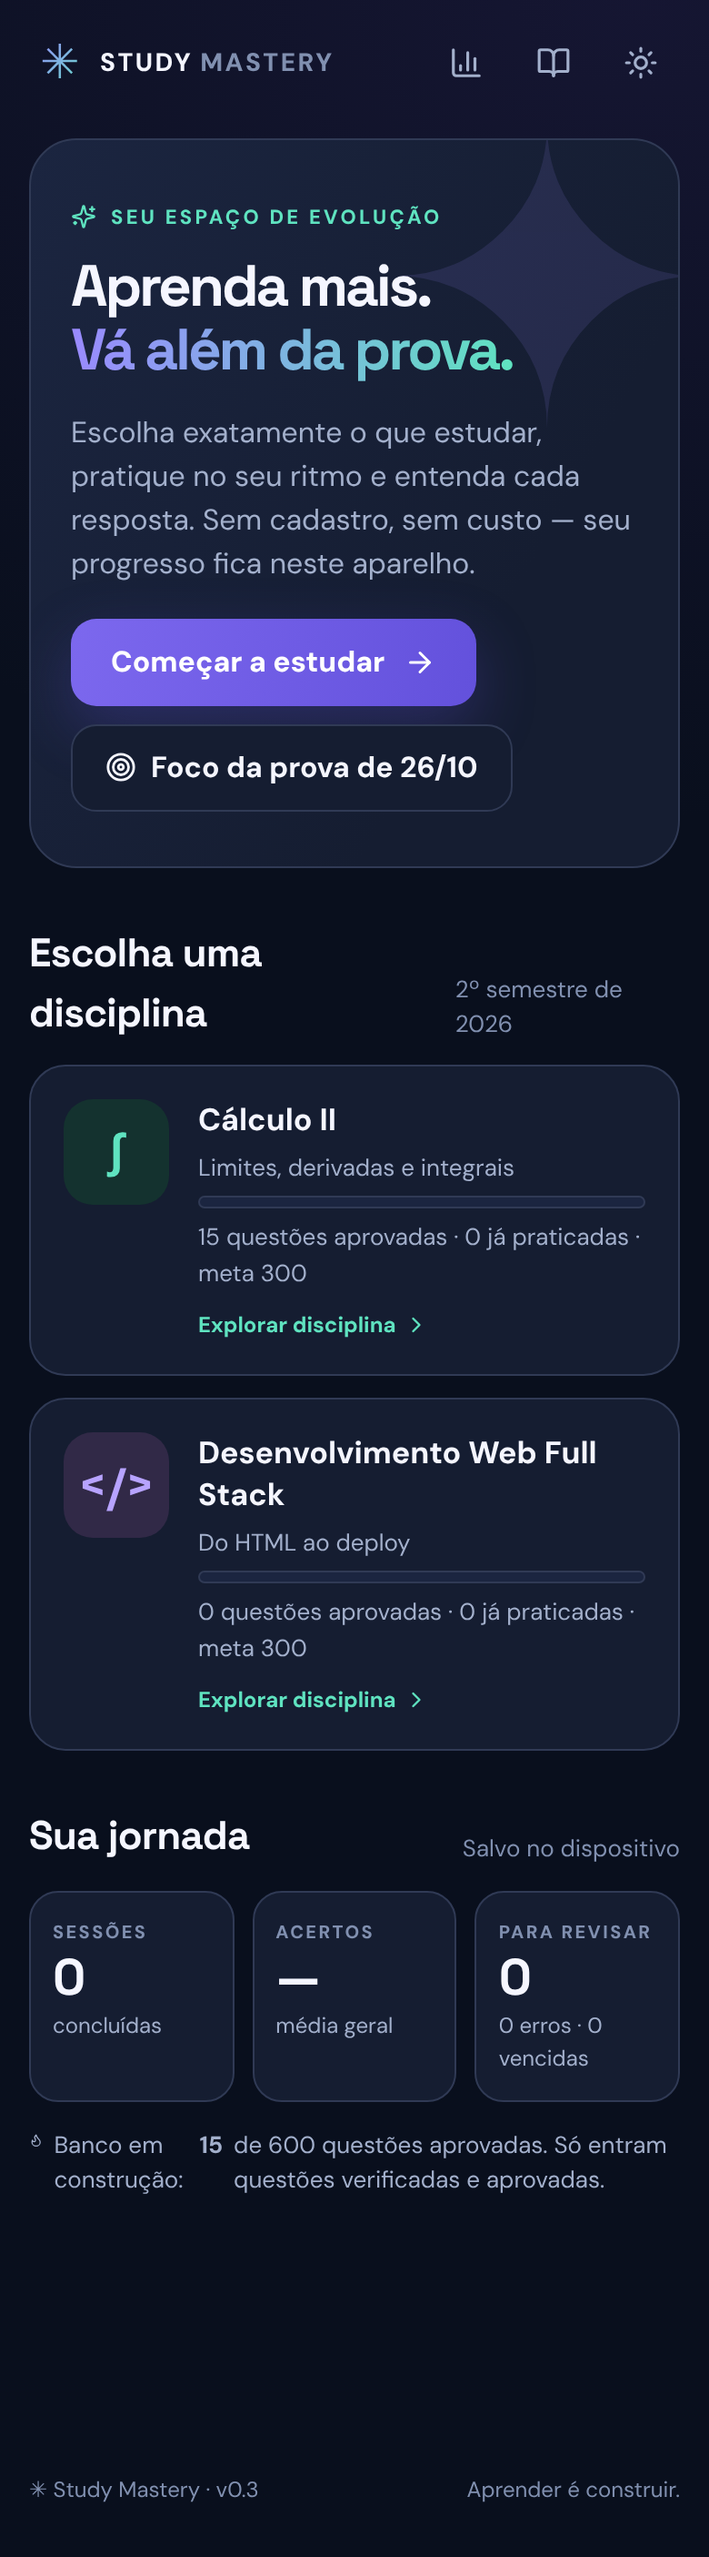
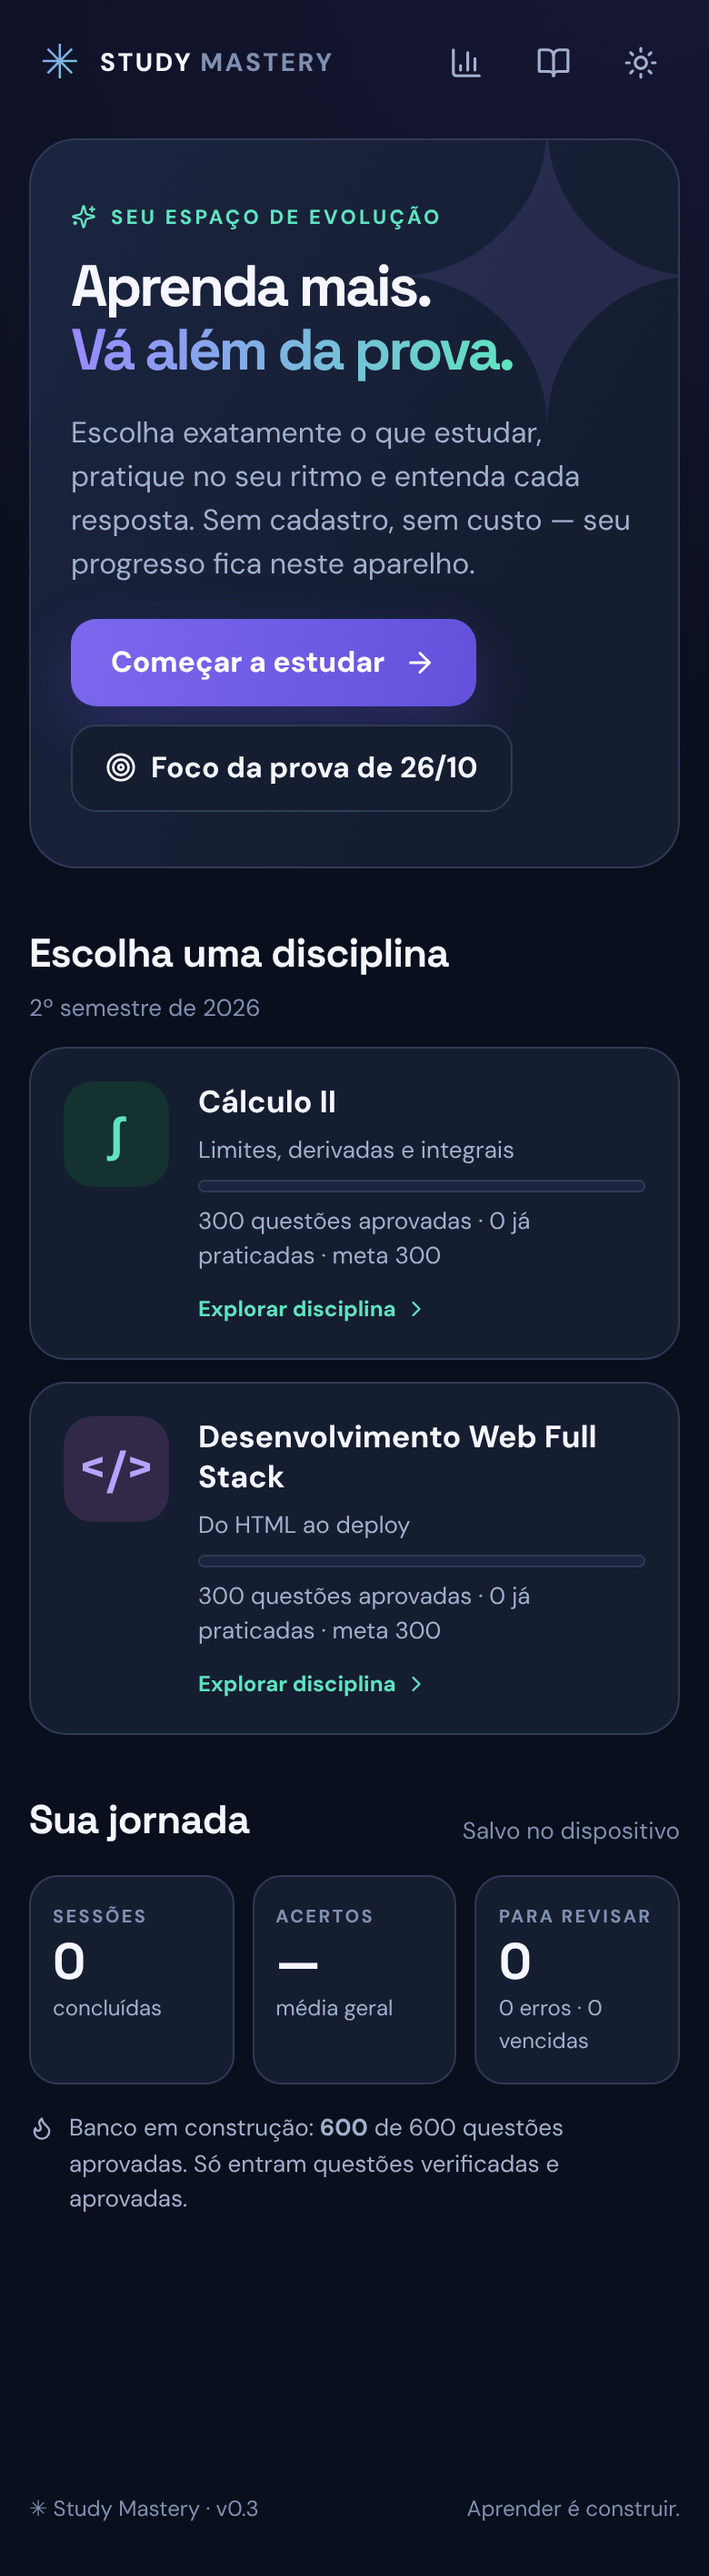
Docs e E2E para a v0.4: 600 aprovadas, verificadores de Full Stack, auditoria do legado
Claude-Session: https://claude.ai/code/session_017Rnfn5MW9JfNsp5D9rP1dW

diff --git a/study-mastery/tests/e2e/run.ts b/study-mastery/tests/e2e/run.ts
@@ -66,12 +66,20 @@ async function run(page: Page) {
   const lh = page.getByRole('checkbox', { name: /Regra de L’Hôpital|Regra de L'Hôpital/ });
   check(await lh.isChecked(), "L'Hôpital marcado pelo preset da prova");
   const deriv = page.getByRole('checkbox', { name: /Regras de derivação/ });
-  check(await deriv.isDisabled(), 'assunto sem questões aprovadas fica desabilitado (sem inventar conteúdo)');
+  check(!(await deriv.isDisabled()), 'assunto com questões aprovadas pode ser selecionado');
   check(await noHScroll(page), 'sem rolagem horizontal na configuração');
   await page.screenshot({ path: shot('02-setup.png'), fullPage: true });
   const summary = page.getByRole('region', { name: 'Resumo da sessão' });
   check(/elegíveis/.test(await summary.innerText()), 'resumo de elegíveis visível');
-  check(/Só há \d+ questões aprovadas/.test(await summary.innerText()), 'avisa quando há menos questões do que o pedido (20) em vez de completar');
+  // só “Regras de derivação” (17 aprovadas, menos que 20 elegíveis) com sessão de 20: o app avisa em vez de completar com outro conteúdo
+  await page.getByRole('button', { name: 'Selecionar todos' }).click();
+  await page.getByRole('button', { name: 'Limpar' }).click();
+  await deriv.check();
+  await page.locator('label.seg-btn', { hasText: /^\s*20\s*$/ }).click();
+  check(/Só há (\d+) questões aprovadas/.test(await summary.innerText()) && Number(/Só há (\d+)/.exec(await summary.innerText())![1]) < 20, 'avisa quando há menos questões do que o pedido (20) em vez de completar');
+  await page.getByRole('button', { name: 'Foco da prova' }).click();
+  await page.getByRole('checkbox', { name: /Regra de L’Hôpital|Regra de L'Hôpital/ }).waitFor();
+  check(await page.getByRole('checkbox', { name: /Regra de L’Hôpital|Regra de L'Hôpital/ }).isChecked(), 'preset da prova restaurado');
 
   console.log('Modo Aprender');
   await page.getByRole('radio', { name: /^Aprender/ }).check();
@@ -155,6 +163,29 @@ async function run(page: Page) {
   await page.getByText(/Importado:/).waitFor();
   check(/2/.test(await page.locator('.metrics').first().innerText()), 'importação restaura o histórico');
   fs.rmSync(file);
+
+  console.log('Full Stack (código e explicações)');
+  await page.evaluate(() => { location.hash = '#/setup?d=fullstack'; });
+  await page.getByRole('heading', { name: /Configure seu/ }).waitFor();
+  if (await page.getByRole('button', { name: 'Selecionar todos' }).count()) await page.getByRole('button', { name: 'Selecionar todos' }).click();
+  await page.getByRole('radio', { name: /^Aprender/ }).check();
+  await page.locator('label.seg-btn', { hasText: /^\s*10\s*$/ }).click();
+  await page.getByRole('button', { name: /Iniciar/ }).click();
+  await page.getByRole('radiogroup').first().waitFor();
+  let codigos = 0;
+  for (let i = 0; i < 10; i++) {
+    codigos += await page.locator('#q-stem code, .choice code').count();
+    await page.keyboard.press('1');
+    await page.locator('.feedback').waitFor();
+    if (i === 0) {
+      check(await page.getByText('Por que a alternativa correta está certa').isVisible(), 'Full Stack mostra a explicação detalhada');
+      await page.screenshot({ path: shot('10-fullstack-feedback.png'), fullPage: true });
+    }
+    await page.getByRole('button', { name: /Próxima|Ver resultados/ }).click();
+  }
+  check(codigos > 0, 'Full Stack renderiza trechos de código (inline ou em bloco)');
+  check(await noHScroll(page), 'sem rolagem horizontal em Full Stack (390px)');
+  await page.getByRole('heading', { name: /Resultado|Sessão concluída|acertos/i }).first().waitFor().catch(() => undefined);
 
   console.log('Acervo e tema');
   await page.getByRole('button', { name: 'Acervo e fontes' }).click();

diff --git a/study-mastery/PROGRESSO.md b/study-mastery/PROGRESSO.md
@@ -5,7 +5,7 @@ Atualizado a cada etapa. As **contagens** abaixo são geradas do banco (`npm run
 ## Contagens validadas
 
 <!-- CONTAGENS:INICIO -->
-_Gerado automaticamente em 2026-10-23T01:53:36.374Z por `npm run progress`. Só contam questões **aprovadas**; rascunhos, verificadas-não-aprovadas e rejeitadas ficam fora._
+_Gerado automaticamente em 2026-10-23T02:00:38.270Z por `npm run progress`. Só contam questões **aprovadas**; rascunhos, verificadas-não-aprovadas e rejeitadas ficam fora._
 
 **Total aprovado: 600 de 600** (faltam 0).
 
@@ -66,15 +66,17 @@ Revisão das aprovadas: 600 `ai-assisted`. **Nenhuma questão passou por revisã
 | P1 — UI navegável, 4 modos, filtros estritos, histórico local, E2E | **feito e testado** | testes unitários + E2E em Chromium 390 px (`npm run e2e`), capturas em `docs/screenshots/` |
 | P2 — schema, importação, validadores, fila de revisão, cobertura | **feito e testado** | `tools/` + testes em `tools/lib/__tests__/` |
 | P3 — gerador de rascunhos por lotes com provedor injetável | **feito**; provedor real **não testado contra a API** (sem chave neste ambiente) | testado com `MockProvider` e `fetch` simulado |
-| P4 — expansão até 600 aprovadas | **em andamento** | ver contagens |
+| P4 — expansão até 600 aprovadas | **feito** (600/600 aprovadas, 100 por dificuldade e disciplina) | ver contagens; Full Stack verificado por execução (Node, React, Express, MariaDB, Chromium) |
 | P5 — PWA/offline, acessibilidade, deploy gratuito | PWA (service worker + manifest) feito; deploy **não feito** (precisa da sua autorização) | `public/sw.js` |
 
 ## Pendências e riscos
 
-- **Próximo passo — Full Stack (0/300)**: auditar/reescrever as 50 questões legadas (`content/legacy/legacy-v01.json`), montar a verificação de Full Stack (sandbox Node com express/jsonwebtoken/bcryptjs/mysql2/react SSR, Chromium para HTML/CSS, SQLite para SQL), registrar as fontes (READMEs das aulas) e escrever os lotes por assunto conforme `content/taxonomy.json`. Cálculo II está completo (300/300).
+- **Próximo passo recomendado — revisão humana**: amostrar e aprovar (`--type human`) especialmente as questões de aprofundamento/desafio; só então considerar `publish --require-human`.
+- **Ambiente de verificação**: questões de Full Stack exigem `npm run sandbox:install`, Chromium e `mariadb-server` (veja `docs/PIPELINE.md`); sem eles, `validate` falha nessas questões (por desenho: nada é aprovado sem execução).
 - **Cálculo II sem aula no material**: derivadas parciais, integrais duplas e otimização usam o conteúdo programático (`c2-programa`) como fonte; os enunciados são originais e verificados por SymPy/mpmath. Se a professora enviar slides desses temas, vale conferir o alinhamento de notação.
-
+- **MariaDB × MySQL**: as 26 questões de SQL foram executadas em MariaDB com o `sql_mode` do MySQL 8; diferenças exclusivas do MySQL 8 não foram cobertas (questões evitam depender delas).
+- **Legado**: as 50 questões antigas de Full Stack não foram publicadas (veja `docs/AUDITORIA_LEGADO.md`).
 - **Revisão humana**: toda aprovação até aqui é "assistida por IA" (verificação automática + leitura crítica em passada separada da autoria). Recomenda-se amostragem humana; `npm run sm -- publish --require-human` publica só o que um humano aprovou.
-- **Rede bloqueada para fontes externas** (OpenStax, MDN, react.dev, RFCs, dev.mysql.com): nenhuma questão cita essas fontes (a validação recusa fontes não lidas). Para liberar, adicione os hosts em *Allowed domains* do ambiente.
+- **Fontes externas não lidas** (OpenStax, MDN, react.dev, RFCs, dev.mysql.com, docs do Render/Netlify): nenhuma questão cita essas fontes (a validação recusa fontes não lidas). Para liberar, adicione os hosts em *Allowed domains* do ambiente.
 - **Materiais não lidos**: `Lista_CalcII.pdf` (Revisão NI1) e `3a Lista CB — Máximos e Mínimos` nunca foram recebidos (registrado no Drive). O PDF da 2ª lista de L'Hôpital/integrais tem matemática em imagem; foi lida por renderização.
 - **Deploy**: nada foi publicado. O workflow `.github/workflows/deploy.yml` do repositório não foi alterado.

diff --git a/study-mastery/docs/PIPELINE.md b/study-mastery/docs/PIPELINE.md
@@ -21,6 +21,10 @@
 6. **Gabarito demonstrado** (`verification`):
    - `limit`, `form`, `derivative`, `integral`, `definite`, `expr`, `function`: **SymPy** (simbólico) + **mpmath** (numérico independente: sequências com 250 dígitos, quadratura, diferença finita). Exige que **somente** a alternativa correta satisfaça a verificação.
    - `js`: executa o código em Node isolado (`--permission`) e compara a saída real com cada alternativa (reproduz a ordem real de `nextTick`, microtasks e timers).
+   - `double`: integrais duplas — valor exato (SymPy) + quadratura aninhada (mpmath) na ordem original; `swap`/`exactFrom: "swap"` usam o teorema de Fubini quando a ordem dada não tem primitiva elementar.
+   - `node`: executa código com as bibliotecas **reais** do sandbox (`tools/sandbox`: Express 5, cors, jsonwebtoken, bcryptjs, React 19 + jsdom, React Router 7, Vite, emmet, mysql2, ignore) em Node `--permission` (leitura de arquivos só no sandbox, sem processos filhos). `jsx: true` compila JSX com o esbuild; `files` cria arquivos de apoio lidos via `DIR`; `addons: true` libera módulos nativos (Vite). Servidores de teste usam porta efêmera em 127.0.0.1.
+   - `sql`: carrega o schema da aula em um **MariaDB temporário** (compatível com MySQL; `sql_mode` do MySQL 8; sem autenticação, só em 127.0.0.1) e executa as consultas com `mysql2`. Evitamos depender de diferenças conhecidas entre MariaDB e MySQL (ex.: códigos de erro de `CHECK`). Requer `apt-get install mariadb-server`.
+   - `web`: abre HTML/CSS no **Chromium** (sem rede) e mede layout, estilos computados e a árvore de acessibilidade (`aria`); com `servers` sobe origens locais distintas para testar `fetch`/**CORS de verdade** (sem interceptação do Playwright, que falseia o preflight).
    - `source`: afirmações conferidas contra a fonte lida (não há execução; fica registrado como `source-review`).
 
 ## Revisão
@@ -37,8 +41,21 @@
 
 `import` percorre PDFs/MD/TXT/HTML/ZIP (recusa *zip-slip*), calcula SHA-256, detecta duplicatas e atualizações, extrai texto (`pdftotext`), classifica assuntos por palavras-chave (`content/keywords.json`), sugere cabeçalhos de assuntos novos e registra novas fontes. `--drive <pasta>` baixa de uma pasta do Google Drive pela API REST usando `GOOGLE_DRIVE_TOKEN` (testado com `fetch` simulado, **não** contra o Drive real).
 
+## Instalação do verificador de Full Stack
+
+```bash
+npm run sandbox:install        # instala tools/sandbox/node_modules (ignorado pelo git)
+apt-get install -y mariadb-server   # só para questões kind=sql
+```
+
+O Chromium usa `CHROMIUM_PATH` (padrão `/opt/pw-browsers/chromium-1194/chrome-linux/chrome`).
+
 ## Limites conhecidos
 
 - `source-review` não é verificação executável: depende da leitura da fonte e da revisão.
 - O Node `--permission` não bloqueia rede em loopback; para código gerado por IA não confiável, rode `validate` dentro de um contêiner.
 - A verificação numérica de limites usa sequências finitas: não decide convergências extremamente lentas (ex.: $(\ln x)^5/x^{0{,}1}$) — nesses casos a questão é reformulada.
+- O `kind: node` não restringe rede em loopback; o código verificado é sempre escrito no repositório (nunca de terceiros).
+- O `kind: sql` usa MariaDB: comportamentos exclusivos do MySQL 8 (autenticação, alguns códigos de erro) não são cobertos. Verifique antes de criar questões que dependam dessas diferenças.
+- Detalhes de plataformas externas (Render, Netlify) só entram quando constam do material da aula; o que dá para executar localmente (Vite `loadEnv`, Express, CORS, `.gitignore`) é executado.
+- Lições registradas: duas afirmações iniciais minhas foram **refutadas pela execução** e substituídas (stack de erros customizados; laço infinito em `useEffect` no React); a verificação real é o que impede esse tipo de erro.

diff --git a/study-mastery/docs/AUDITORIA_LEGADO.md b/study-mastery/docs/AUDITORIA_LEGADO.md
@@ -1,0 +1,38 @@
+# Auditoria das 50 questões legadas de Full Stack (v0.1)
+
+Arquivo: `content/legacy/legacy-v01.json` (intocado). **Nenhuma** das 50 foi publicada: o app só lê o banco `approved` gerado pelo pipeline.
+
+## Achados
+
+| Problema | Quantidade | Detalhe |
+|---|---:|---|
+| Explicação genérica (“Revise …”) | 50 | nenhuma explica por que a alternativa está certa nem por que as outras estão erradas |
+| Sem motivo por alternativa errada | 50 | exigência do pipeline v0.3 |
+| Dificuldade única (`intermediario`) | 50 | impossível cumprir as cotas fácil/média/difícil |
+| Sem fonte rastreável | 50 | apenas `legado-fullstack-v01` |
+| Sem verificação executável | 50 | gabarito não demonstrado |
+| Enunciado com defeito | 1 | `fs-026` tem dupla negação (“Por que **não** devemos **evitar** explodir um objeto…”) |
+
+Conferência factual do gabarito: nenhum erro de conteúdo foi encontrado nas 50 (por exemplo, `fs-039` — porta 3333 — está confirmada no README da Aula 09; `fs-049` — Express 5 e Promises rejeitadas — confere com a Aula 12 e foi reexecutado no verificador).
+
+## Decisão
+
+Em vez de “remendar” as 50 (que ficariam sem dificuldade variada nem verificação), os **mesmos assuntos** foram cobertos por 300 questões novas, originais, com gabarito demonstrado por execução, fonte e motivos por alternativa. O legado permanece no repositório apenas como referência histórica.
+
+## Mapeamento por assunto
+
+| Assunto legado (nº) | Assunto atual | Aprovadas |
+|---|---|---:|
+| HTML Semântico (4) | `html` | 20 |
+| CSS Flexbox/Grid (5) | `css` | 24 |
+| JS Funções (5) | `js-funcoes` | 27 |
+| Fetch API (4) | `fetch-async` | 26 |
+| Classes JS e Erros (4) | `classes-erros` | 22 |
+| React Componentes (4) | `react-componentes` | 24 |
+| React useEffect/Forms (7) | `react-hooks-forms` | 27 |
+| React Router (4) | `react-router` | 18 |
+| Express (4) | `express-rest` | 27 |
+| MySQL (4) | `mysql` | 26 |
+| JWT (4) | `jwt-auth` | 25 |
+| Error Handlers (3) | `validacao-erros` | 18 |
+| — (deploy não existia no legado) | `deploy` | 16 |

diff --git a/study-mastery/docs/IMPLEMENTACAO.md b/study-mastery/docs/IMPLEMENTACAO.md
@@ -17,5 +17,9 @@ P1 — validadores, painel editorial, matemática com KaTeX, ingestão manual do
 P2 — revisão espaçada e calibração por taxa de acerto.
 P3 — automação controlada de ingestão externa; Supabase opcional para login/sincronização e pipeline editorial.
 
-## Nota de implementação
-Protótipo criado nesta entrega; não confundir telas do Figma com app hospedado e nem pipeline planejado com código existente.
+## Estado da implementação (v0.4)
+
+- Entregue e testado: app React/Vite (4 modos, filtros estritos, Leitner, histórico local, exportar/importar, PWA), pipeline editorial completo (`tools/sm.ts`) e **600 questões aprovadas** (300 Cálculo II + 300 Full Stack) com verificação executável (SymPy/mpmath, Node isolado, React, Express, MariaDB temporário, Chromium).
+- Suíte: testes unitários e do pipeline (`npm test`) e E2E em Chromium a 390 px (`npm run e2e`, inclui sessão de Full Stack com código).
+- Pendências conscientes: revisão humana (todas as aprovações são `ai-assisted`); provedor de IA real e download real do Google Drive nunca rodaram contra as APIs (apenas mocks); fontes externas (`ext-*`) continuam `accessed: false` porque os domínios estavam bloqueados; deploy público não foi feito (depende de autorização).
+- As 50 questões legadas de Full Stack não foram publicadas: veja `docs/AUDITORIA_LEGADO.md`.

diff --git a/study-mastery/CHANGELOG.md b/study-mastery/CHANGELOG.md
@@ -1,5 +1,13 @@
 # Changelog
 
+## 0.4.0 — 2026-10-23
+- **600 questões aprovadas**: Cálculo II (300) e Desenvolvimento Web Full Stack (300), 100 por dificuldade em cada disciplina, distribuídas pelos assuntos conforme `content/taxonomy.json`.
+- Cálculo II completo: derivadas, Taylor, máximos e mínimos, funções de 2 variáveis, derivadas parciais, integrais duplas e otimização (além de L'Hôpital, primitivas, substituição e integral definida).
+- Verificadores novos: `double` (integrais duplas com Fubini), `node` (Express, JWT, bcrypt, React, React Router, Vite, emmet), `sql` (MariaDB temporário), `web` (Chromium: roles/acessibilidade, layout, CORS real).
+- Full Stack: 300 questões novas, todas com código ou comportamento executado de verdade; as 50 legadas ficaram como referência (veja `docs/AUDITORIA_LEGADO.md`).
+- App: trechos de código e explicações de Full Stack testados em E2E (390 px); E2E ajustado ao banco completo.
+- Nota: todas as aprovações são `ai-assisted`; revisão humana segue pendente.
+
 ## 0.3.0 — 2026-10-22
 - Reescrita modular do app (React 19 + TypeScript + Vite): home, configuração, quiz, resultados, progresso e acervo; tema claro/escuro; PWA.
 - Motor puro e testado: filtros estritos, sessões por modo, embaralhamento por ID, Leitner, armazenamento local com exportação/importação.

diff --git a/study-mastery/README.md b/study-mastery/README.md
@@ -1,12 +1,12 @@
-# Study Mastery v0.3
+# Study Mastery v0.4
 
 Plataforma de estudos universitária gratuita e mobile-first: questões, simulados, explicações e acompanhamento do aprendizado — **sem cadastro e sem chamadas de IA durante as sessões**. O estudante usa um banco de questões **previamente verificado e aprovado**, versionado em JSON; todo o progresso fica no próprio aparelho.
 
-> Estado real: veja [`PROGRESSO.md`](PROGRESSO.md) (contagens geradas do banco, sem arredondar). Meta: 600 questões aprovadas (100 fáceis + 100 médias + 100 difíceis por disciplina). Nada foi publicado na internet; o deploy depende da sua autorização.
+> Estado real: veja [`PROGRESSO.md`](PROGRESSO.md) (contagens geradas do banco, sem arredondar). Meta de 600 questões aprovadas **atingida** (100 fáceis + 100 médias + 100 difíceis por disciplina), todas com revisão assistida por IA e verificação executável; falta revisão humana. Nada foi publicado na internet; o deploy depende da sua autorização.
 
 ## Executar
 
-Requer Node 22+ (e Python 3 com `sympy`/`mpmath` apenas para o processo editorial).
+Requer Node 22+ (e, apenas para o processo editorial: Python 3 com `sympy`/`mpmath`, `npm run sandbox:install`, Chromium e, para questões de SQL, `mariadb-server`).
 
 ```bash
 npm install
